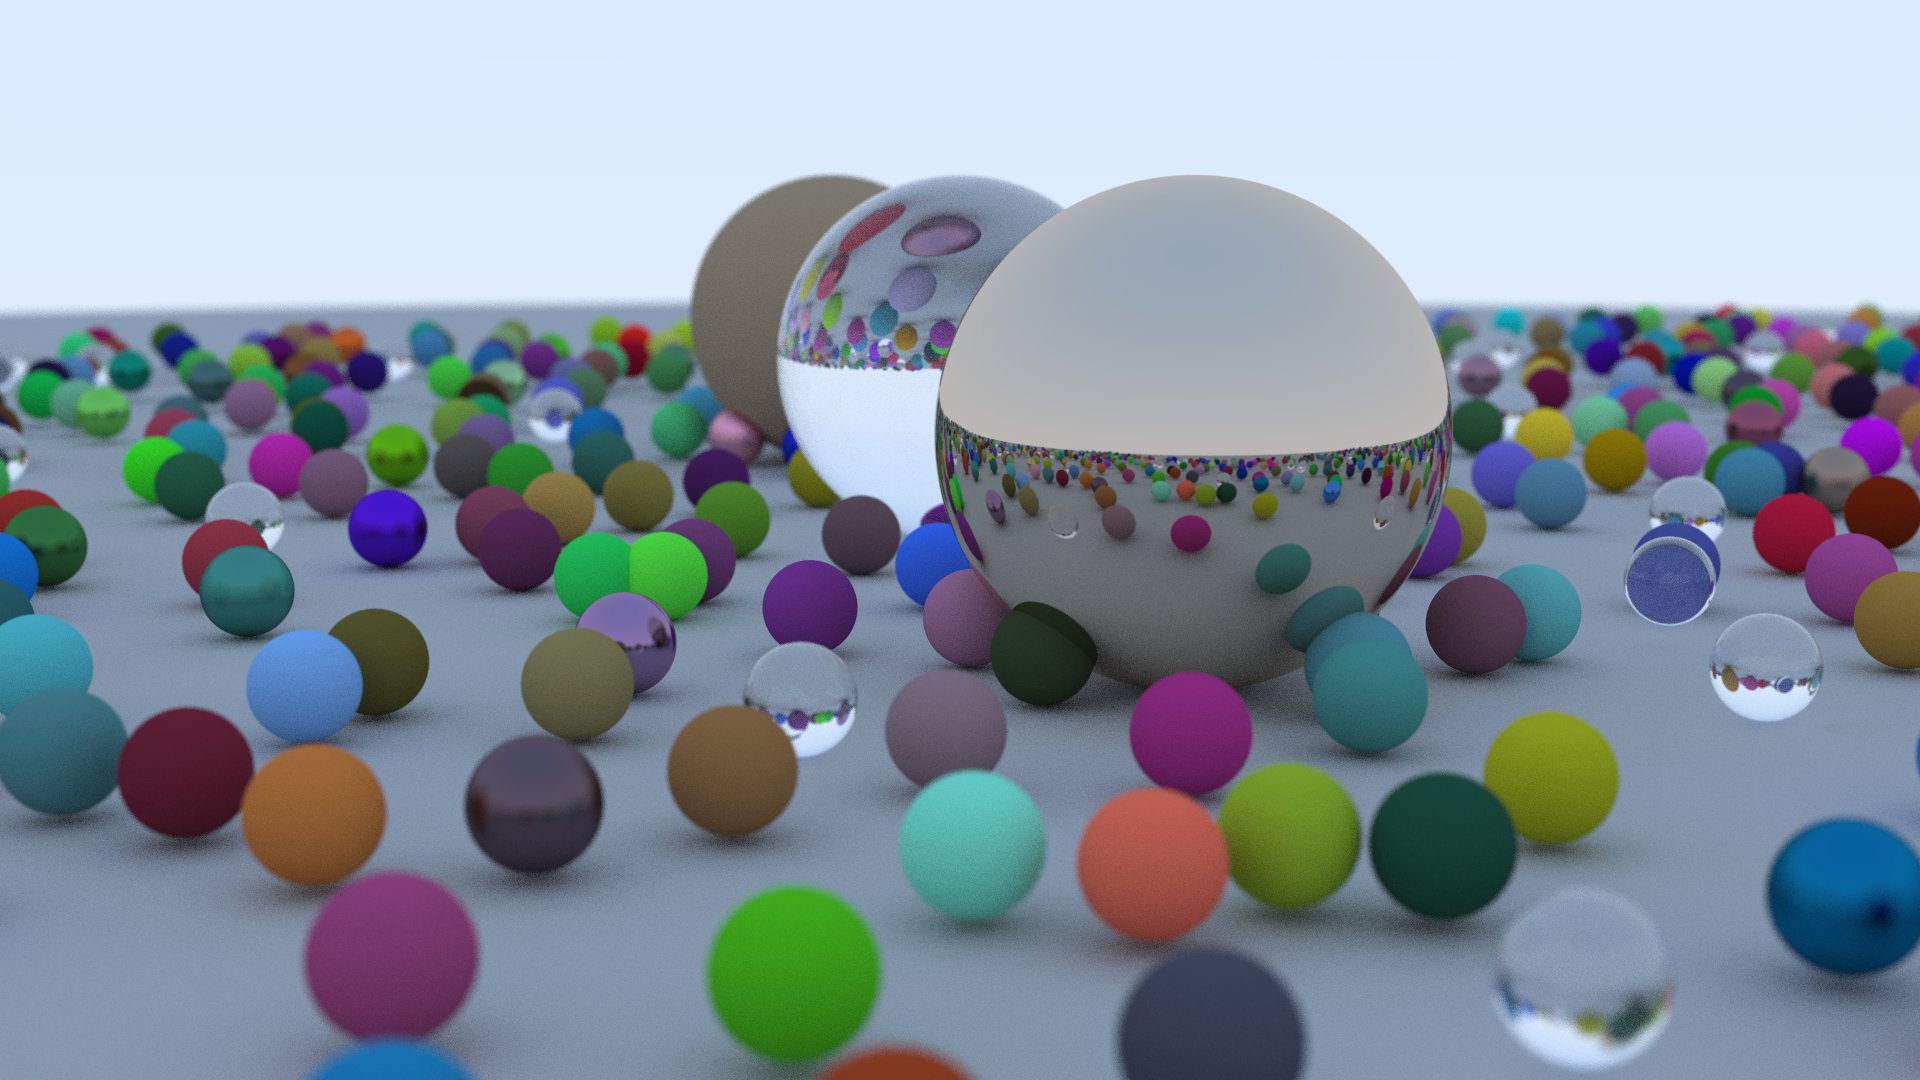
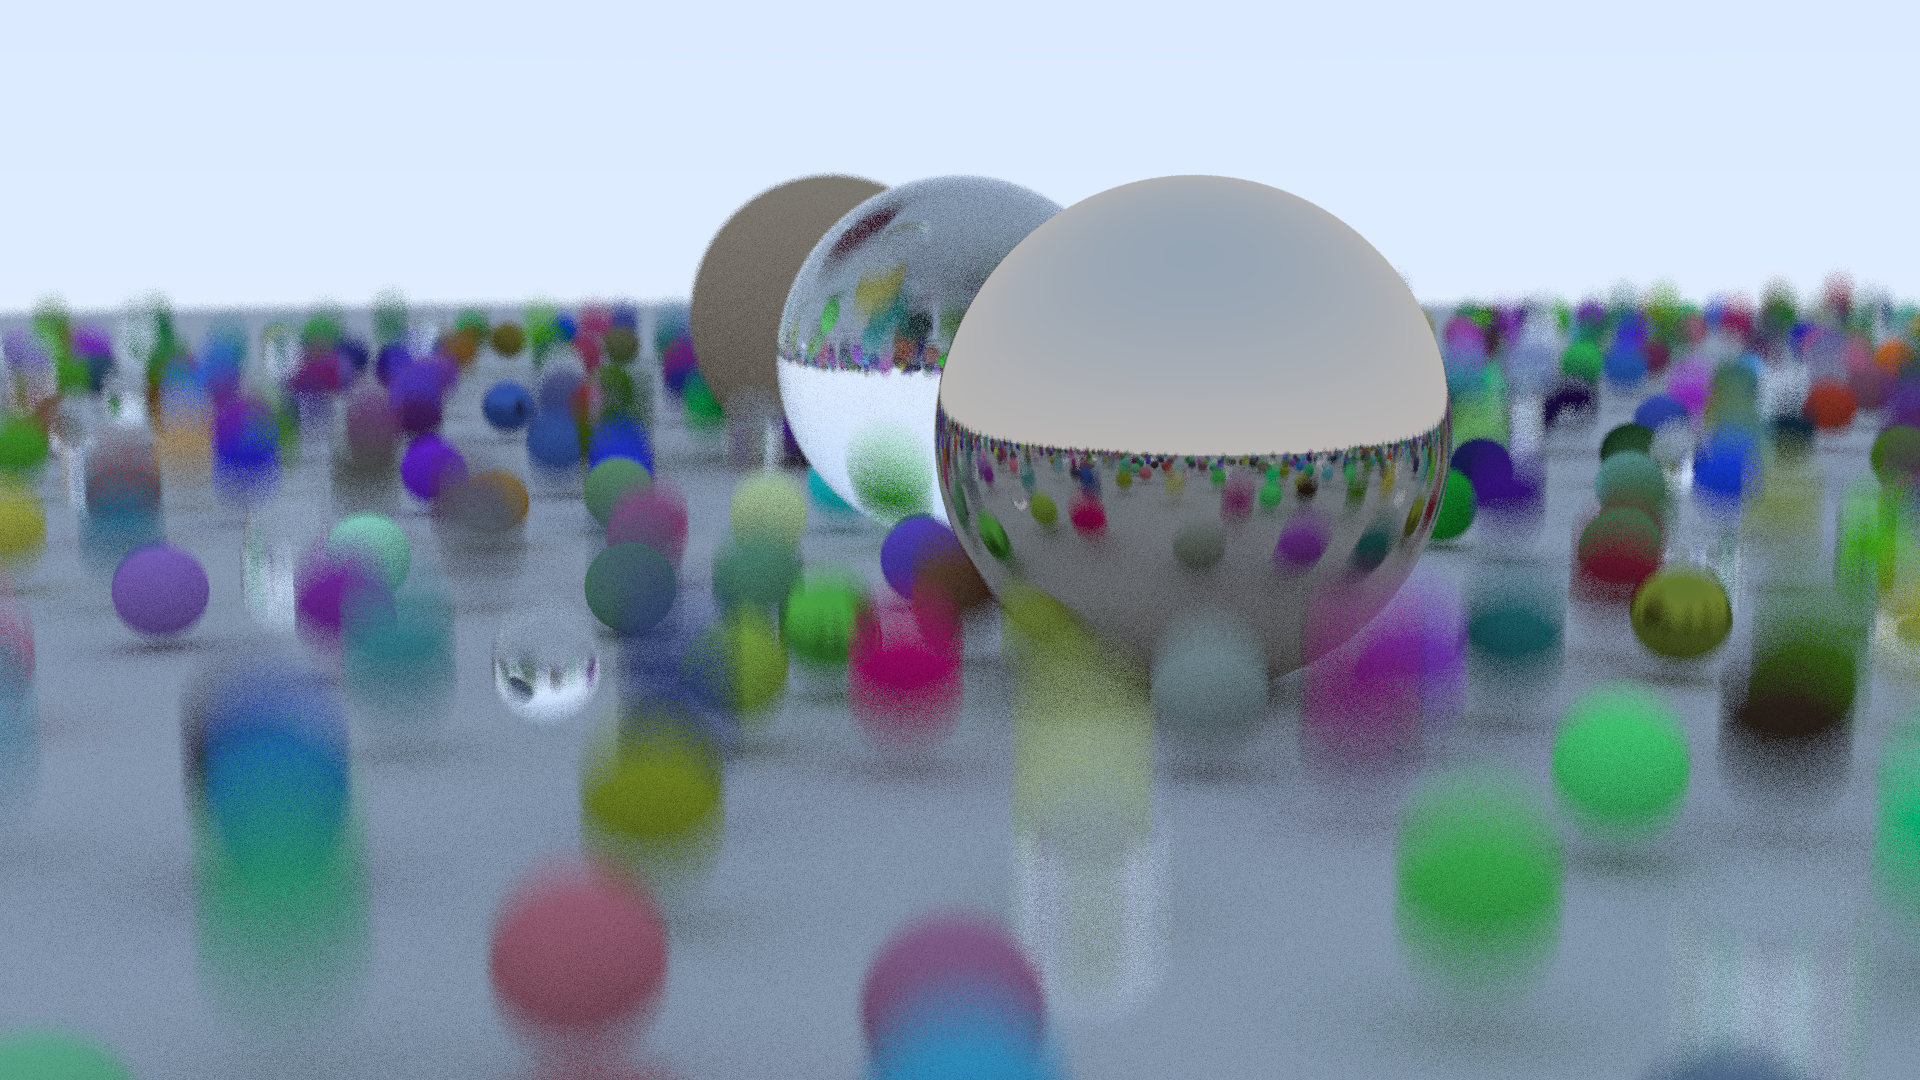
add motion blur

diff --git a/rtcli/src/scenes/large_scene.rs b/rtcli/src/scenes/large_scene.rs
@@ -25,9 +25,9 @@ pub fn large_scene() -> ImageBuffer<image::Rgb<u8>, Vec<u8>> {
     let mut world = World::new();
 
     // floor
-    let floor_material = Material::Diffuse(material::Diffuse::new(&Vec3A::new(0.5, 0.5, 0.5)));
-    world.push(Object::Sphere(object::Sphere::new(
-        Vec3A::new(0., -1000., 0.),
+    let floor_material = Material::Diffuse(Diffuse::new(&Vec3A::new(0.5, 0.5, 0.5)));
+    world.push(Object::Sphere(Sphere::new(
+        &Vec3A::new(0., -1000., 0.),
         1000.,
         floor_material,
     )));
@@ -36,7 +36,7 @@ pub fn large_scene() -> ImageBuffer<image::Rgb<u8>, Vec<u8>> {
     let mut rng = thread_rng();
     for x in -15..15 {
         for y in -15..15 {
-            let centre = Vec3A::new(
+            let center = Vec3A::new(
                 x as f32 + 0.9 * random_float(),
                 0.2,
                 y as f32 + 0.9 * random_float(),
@@ -46,7 +46,7 @@ pub fn large_scene() -> ImageBuffer<image::Rgb<u8>, Vec<u8>> {
                     0..=79 => {
                         // diffuse material
                         let albedo = Vec3A::new_random() * Vec3A::new_random();
-                        Material::Diffuse(material::Diffuse::new(&albedo))
+                        Material::Diffuse(Diffuse::new(&albedo))
                     }
                     80..=89 => {
                         // metal
@@ -62,7 +62,8 @@ pub fn large_scene() -> ImageBuffer<image::Rgb<u8>, Vec<u8>> {
                 }
             };
 
-            let obj = Object::Sphere(Sphere::new(centre, 0.2, random_material));
+            let end_center = center + Vec3A::new(0., random_float_range(0.0..0.5), 0.);
+            let obj = Object::Sphere(Sphere::new_translated(&center, &end_center, 0.2, random_material));
             world.push(obj);
         }
     }
@@ -74,17 +75,17 @@ pub fn large_scene() -> ImageBuffer<image::Rgb<u8>, Vec<u8>> {
 
     let big_spheres = vec![
         Object::Sphere(Sphere::new(
-            Vec3A::new(0., 1., 0.),
+            &Vec3A::new(0., 1., 0.),
             1.0,
             glass_material,
         )),
         Object::Sphere(Sphere::new(
-            Vec3A::new(4., 1., 0.),
+            &Vec3A::new(4., 1., 0.),
             1.0,
             metal_material,
         )),
         Object::Sphere(Sphere::new(
-            Vec3A::new(-4., 1., 0.),
+            &Vec3A::new(-4., 1., 0.),
             1.0,
             diffuse_material,
         )),

diff --git a/rtcli/src/object/sphere.rs b/rtcli/src/object/sphere.rs
@@ -3,19 +3,29 @@ use crate::{
     material::Material,
     utils::{self, Interval},
 };
-
+use crate::ray::Ray;
 use super::{HitRecord, Hittable};
 
 pub struct Sphere {
-    center: Vec3A,
+    center: Ray,
     radius: f32,
     material: Material,
 }
 
 impl Sphere {
-    pub fn new(center: Vec3A, radius: f32, material: Material) -> Self {
+    /// creates a new static sphere
+    pub fn new(center: &Vec3A, radius: f32, material: Material) -> Self {
         Self {
-            center,
+            center: Ray::new(center, &Vec3A::new(0., 0., 0.)),
+            radius,
+            material,
+        }
+    }
+
+    /// creates a sphere with translation
+    pub fn new_translated(start_center: &Vec3A, end_center: &Vec3A, radius: f32, material: Material) -> Self {
+        Self {
+            center: Ray::new(start_center, &(end_center - start_center)),
             radius,
             material,
         }
@@ -49,7 +59,9 @@ impl Hittable for Sphere {
         // We then use the quadratic formula to find t (or discriminant to find if there is at least one
         // intersection in the basic, unnormaled cased)
 
-        let camera_to_center = self.center - *ray.origin();
+        // to calculate blur from movement over shutter length
+        let current_center = self.center.at(ray.time());
+        let camera_to_center = current_center - ray.origin();
 
         let a = ray.direction().length_squared();
         let h = camera_to_center.dot(*ray.direction());
@@ -66,7 +78,7 @@ impl Hittable for Sphere {
             // assemble hit record
             let point = ray.at(root);
             let record = {
-                let outward_normal = (point - self.center) / self.radius;
+                let outward_normal = (point - current_center) / self.radius;
                 let front_face = ray.direction().dot(outward_normal) < 0.;
                 let normal = if front_face {
                     outward_normal

diff --git a/rtcli/src/camera.rs b/rtcli/src/camera.rs
@@ -4,9 +4,8 @@ use std::sync::atomic::Ordering::Relaxed;
 use std::time::Instant;
 
 use image::ImageBuffer;
-use rayon::prelude::*;
 use glam::Vec3A;
-
+use rayon::prelude::*;
 use crate::{
     material::Scatter,
     object::{Hittable, World},
@@ -49,7 +48,7 @@ impl Camera {
         let total = imgbuf.pixels().count() as f32;
 
         let time_before = Instant::now();
-        imgbuf.enumerate_pixels_mut().for_each(|(x, y, px)| {
+        imgbuf.par_enumerate_pixels_mut().for_each(|(x, y, px)| {
             let mut color = Vec3A::new(0., 0., 0.);
             for _ in 0..self.num_samples {
                 let ray = self.get_ray(x, y);
@@ -63,7 +62,7 @@ impl Camera {
         let time_after = Instant::now();
         let time = time_after - time_before;
 
-        println!("Time taken\nNormal\t{}", time.as_millis());
+        println!("\nTime taken\t{:.3}", time.as_secs_f32());
 
         imgbuf
     }
@@ -154,9 +153,12 @@ impl Camera {
         };
 
         let direction = px_sample - origin;
-        Ray::new(&origin, &direction)
+        // for motion blur
+        let time = random_float();
+        Ray::new_time(&origin, &direction, time)
     }
 
+    //noinspection RsUnresolvedMethod -> RustRover doesn't like static dispatch enums
     fn ray_color(ray: &Ray, world: &World, num_bounces: u32) -> Vec3A {
         if num_bounces == 0 {
             // hit recursion limit

diff --git a/rtcli/src/material.rs b/rtcli/src/material.rs
@@ -2,7 +2,7 @@ use enum_dispatch::enum_dispatch;
 use glam::Vec3A;
 use crate::{object::HitRecord, ray::Ray, utils::rng::random_float, vec3};
 use crate::prelude::*;
-
+use std::ops::Deref;
 #[enum_dispatch(Scatter)]
 #[derive(Debug, Clone)]
 pub enum Material {
@@ -36,7 +36,7 @@ impl Scatter for Diffuse {
             scatter_direction = record.normal;
         }
 
-        let scattered = Ray::new(&record.point, &scatter_direction);
+        let scattered = Ray::new_time(&record.point, &scatter_direction, ray.time());
         Some((scattered, self.albedo))
     }
 }
@@ -61,7 +61,7 @@ impl Scatter for Metallic {
         let mut reflected = ray.direction().reflect(record.normal);
         reflected = reflected.normalize() + self.fuzz * Vec3A::new_random_unit();
 
-        let scattered = Ray::new(&record.point, &reflected);
+        let scattered = Ray::new_time(&record.point, &reflected, ray.time());
 
         (scattered.direction().dot(record.normal) > 0.).then_some((scattered, self.albedo))
     }
@@ -105,7 +105,7 @@ impl Scatter for Dielectric {
             } else {
                 unit_direction.refract(record.normal, ri)
             };
-        let refracted_ray = Ray::new(&record.point, &direction);
+        let refracted_ray = Ray::new_time(&record.point, &direction, ray.time());
 
         Some((refracted_ray, attenuation))
     }

diff --git a/rtcli/src/scenes/surface_normals.rs b/rtcli/src/scenes/surface_normals.rs
@@ -28,31 +28,31 @@ pub fn surface_normals() -> ImageBuffer<image::Rgb<u8>, Vec<u8>> {
     let mat_right = Material::Metallic(Metallic::new(&Vec3A::new(0.8, 0.6, 0.2), 0.0));
 
     world.push(Object::Sphere(Sphere::new(
-        Vec3A::new(0., -100.5, -1.),
+        &Vec3A::new(0., -100.5, -1.),
         100.,
         mat_grnd,
     )));
 
     world.push(Object::Sphere(Sphere::new(
-        Vec3A::new(0., 0., -1.2),
+        &Vec3A::new(0., 0., -1.2),
         0.5,
         mat_center,
     )));
 
     world.push(Object::Sphere(Sphere::new(
-        Vec3A::new(-1., 0., -1.),
+        &Vec3A::new(-1., 0., -1.),
         0.5,
         mat_left,
     )));
 
     world.push(Object::Sphere(Sphere::new(
-        Vec3A::new(-1., 0., -1.),
+        &Vec3A::new(-1., 0., -1.),
         0.4,
         mat_bubble,
     )));
 
     world.push(Object::Sphere(Sphere::new(
-        Vec3A::new(1., 0., -1.),
+        &Vec3A::new(1., 0., -1.),
         0.5,
         mat_right,
     )));

diff --git a/rtcli/src/ray.rs b/rtcli/src/ray.rs
@@ -4,6 +4,7 @@ use glam::Vec3A;
 pub struct Ray {
     origin: Vec3A,
     direction: Vec3A,
+    time: f32,
 }
 
 impl Ray { 
@@ -11,7 +12,18 @@ impl Ray {
         Self {
             origin: *origin,
             direction: *direction,
+            time: 0.0,
         }
+    }
+
+    /// creates a new ray at fix point in time `time`
+    pub fn new_time(origin: &Vec3A, direction: &Vec3A, time: f32) -> Self {
+        Self {
+            origin: *origin,
+            direction: *direction,
+            time,
+        }
+
     }
 
     pub fn origin(&self) -> &Vec3A {
@@ -20,6 +32,9 @@ impl Ray {
 
     pub fn direction(&self) -> &Vec3A {
         &self.direction
+    }
+    pub fn time(&self) -> f32 {
+        self.time
     }
 
     pub fn at(&self, t: f32) -> Vec3A {
